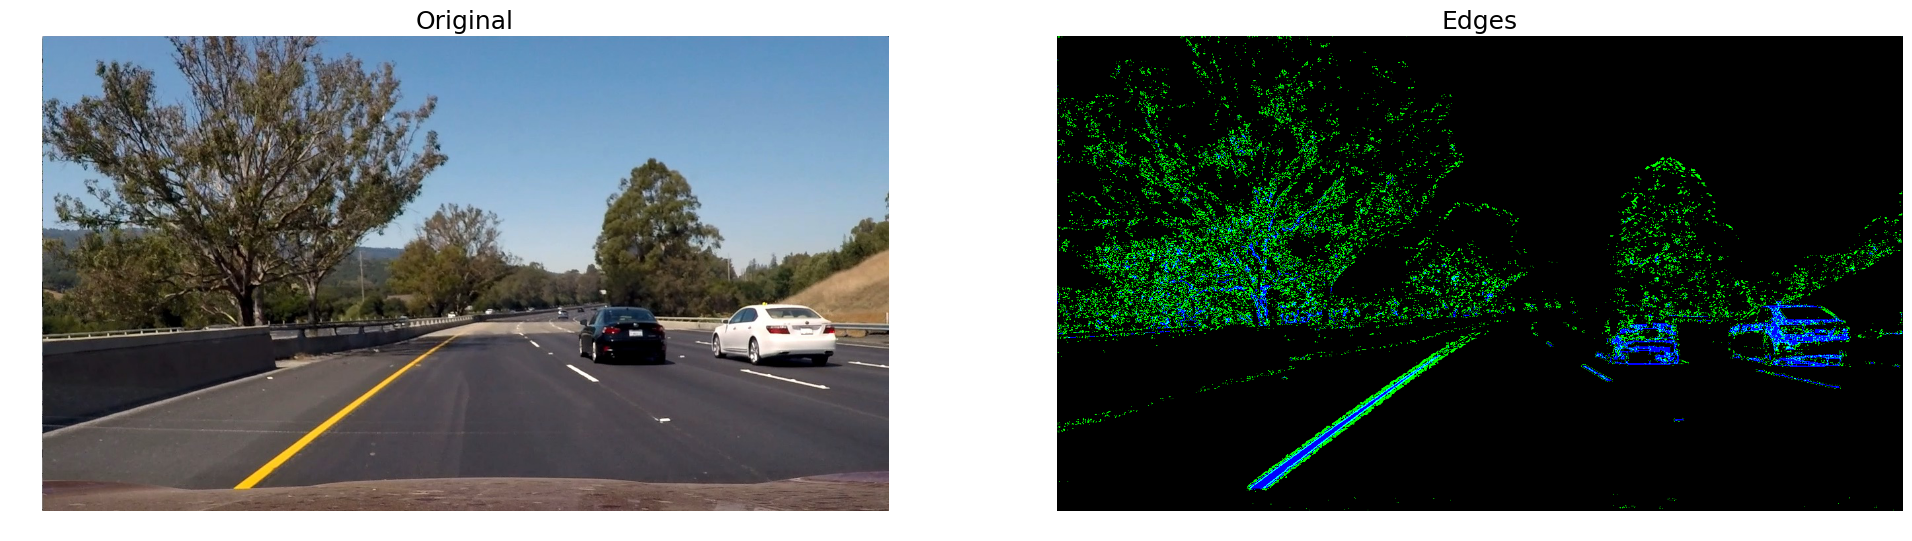
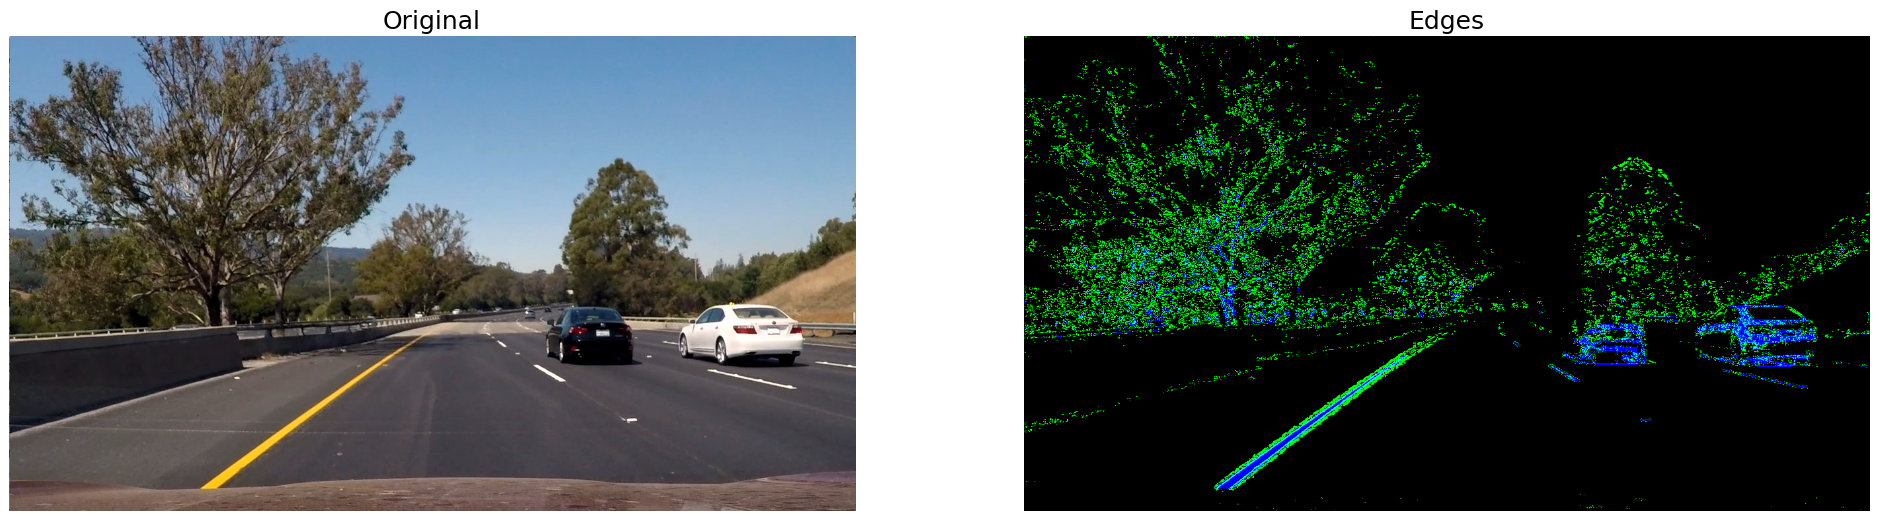
Update images.
Convert images to jpeg for smaller size and make some of them expandable.

diff --git a/_posts/2017-03-06-detecting-road-features.md b/_posts/2017-03-06-detecting-road-features.md
@@ -117,7 +117,9 @@ s_channel = hls[:, :, 2]
 
 We apply a combination of all these filters as an edge detection pipeline. Here is an example of its output, where pixels masked by color are blue, and pixels masked by gradient are green.
 
-![image-center]({{ base_path }}/images/posts/detecting-road-features/edges.png){: .align-center}
+<p align="center">
+    <a href="{{ base_path }}/images/posts/detecting-road-features/edges.jpg"><img src="{{ base_path }}/images/posts/detecting-road-features/edges.jpg"></a>
+</p>
 Original vs. highlighted edges
 {: style="text-align: center;"}
 {: .small}
@@ -147,7 +149,9 @@ image = cv2.warpPerspective(image, transform_matrix, (w, h))
 
 This is what it looks like for an arbitrary test image.
 
-![image-center]({{ base_path }}/images/posts/detecting-road-features/perspective.png){: .align-center}
+<p align="center">
+    <a href="{{ base_path }}/images/posts/detecting-road-features/perspective.jpg"><img src="{{ base_path }}/images/posts/detecting-road-features/perspective.jpg"></a>
+</p>
 Original vs. bird's eye view
 {: style="text-align: center;"}
 {: .small}
@@ -160,7 +164,9 @@ We are now going to scan the resulting frame from bottom to top trying to isolat
 
 Here is a debug image representing the process. On the left is the _original_ image after we apply camera calibration and perspective transform. On the right is the same image, but with edges highlighted in **<span style="color: green">green</span>** and **<span style="color: blue">blue</span>**, scanning windows boundaries highlighted in **<span style="color: yellow">yellow</span>**, and a second order polynomial approximation of collected points in **<span style="color: red">red</span>**.
 
-![image-center]({{ base_path }}/images/posts/detecting-road-features/detection.png){: .align-center}
+<p align="center">
+    <a href="{{ base_path }}/images/posts/detecting-road-features/detection.jpg"><img src="{{ base_path }}/images/posts/detecting-road-features/detection.jpg"></a>
+</p>
 Boundary detection pipeline
 {: style="text-align: center;"}
 {: .small}
